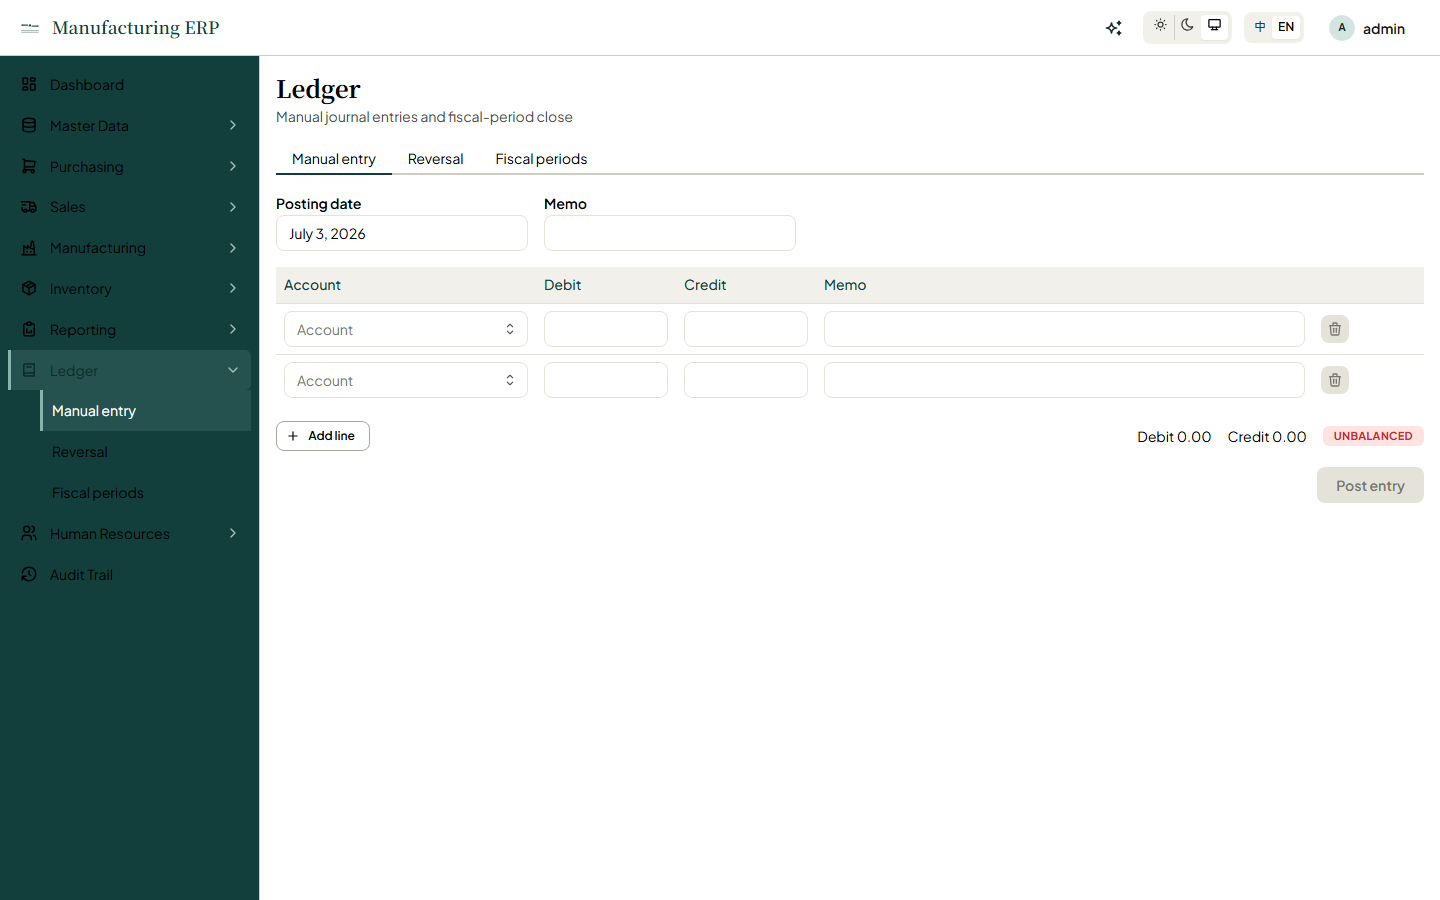
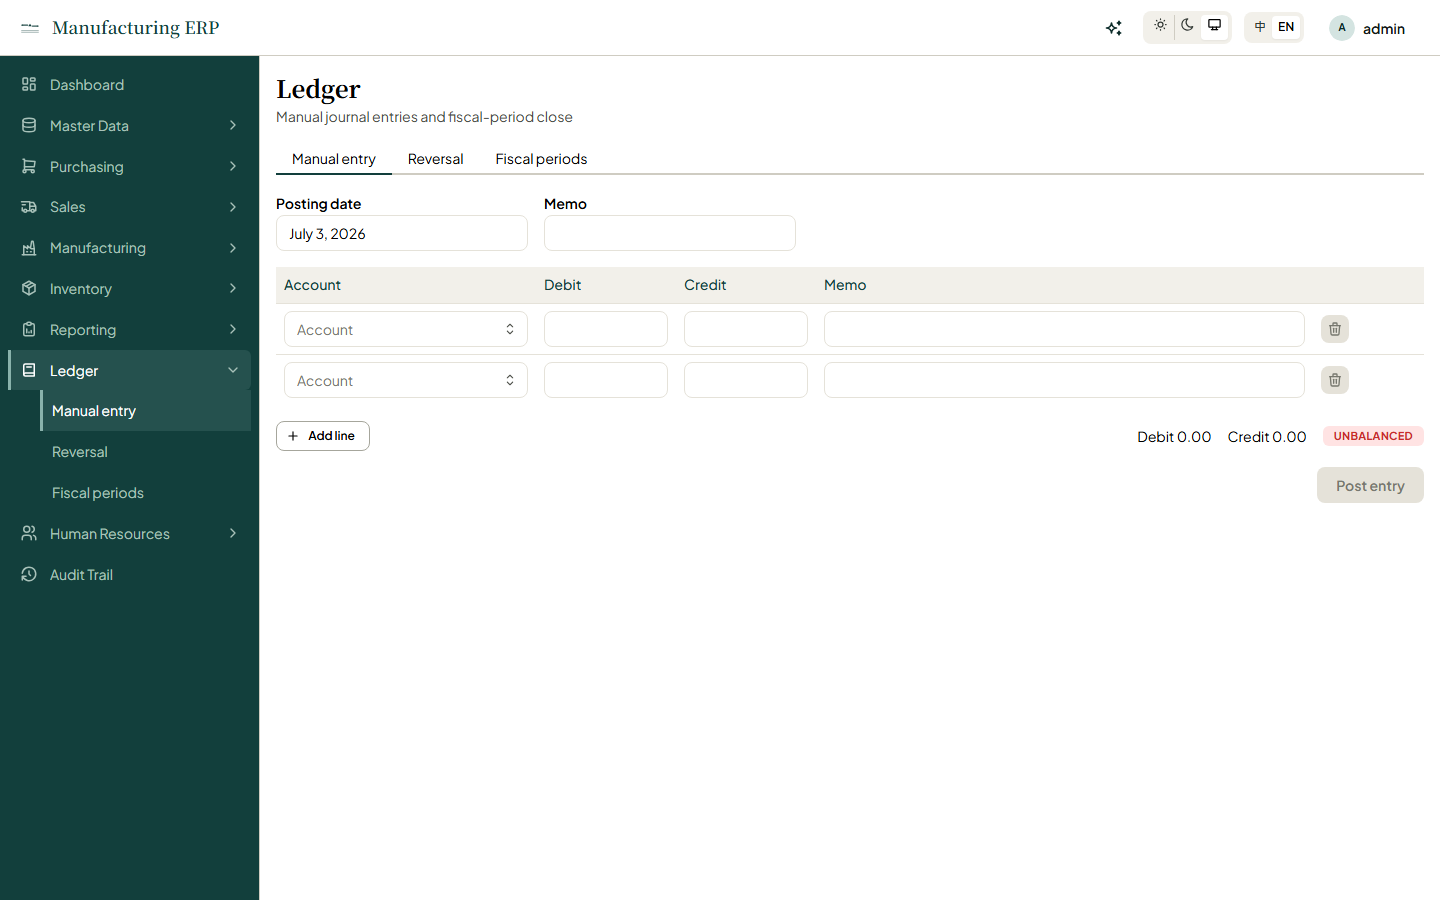
修正: 側欄 inactive NavLink 黑字(axe CI 紅燈)— Mantine --nl-* 機制誤解
- 根因 1:Mantine v9 只在 [data-active] 時讀 --nl-color/--nl-bg;inactive 純繼承文字色(light=黑,墨青底 1.8:1),hover 底寫死 gray-0/dark-6
- 根因 2:--nl-* 由 Mantine 宣告在 root 自身(祖先繼承打不進),variant prop 更會以 inline style 寫入(任何 stylesheet 都壓不過)
- 修:inactive 字色/hover 改明確 color/background 覆寫(特異性壓過 :where() 股規則);active 規則補 --nl-hover(防掉回淡色 wash)與明確 color;父模組 NavLink 移除 variant=subtle(inline 變數來源,透明底本由 .parentLink 提供)
- 以 production build 實測計算樣式驗證(inactive #A9C2BA/active #FFF);Playwright 13/13 全綠(axe 5/5)、Vitest 239、build/types 綠;截圖重製
- 教訓:PNG 小字目檢會騙人(黑字在墨青底上看似淡色),對比類驗證必須靠 axe/計算樣式

diff --git a/frontend/src/components/AppLayout.module.css b/frontend/src/components/AppLayout.module.css
@@ -22,35 +22,49 @@
 
 /* Deep-ink sidebar surface (design.md §2.4/§5). This class scopes ALL the dark-surface nav coloring to the
    navbar so it can never leak onto a NavLink rendered elsewhere in the app — the global NavLink theme
-   override (theme.ts) keeps only the color-agnostic active left-bar. The `--nl-*` vars are Mantine's own
-   NavLink CSS variables (--nl-bg / --nl-color / --nl-hover), so every NavLink inside here — parents,
-   children, single items — is recolored from one place without per-instance props. All values key off the
-   scheme-independent --app-sidebar-* tokens in index.css (single source; contrast.test.ts asserts them). */
+   override (theme.ts) keeps only the color-agnostic active left-bar. All values key off the
+   scheme-independent --app-sidebar-* tokens in index.css (single source; contrast.test.ts asserts them).
+
+   Mechanism note (the axe CI gate caught the first attempt): Mantine's NavLink declares --nl-bg/--nl-color/
+   --nl-hover ON ITS OWN ROOT (an element's own custom-property declaration beats any inherited value, so
+   setting them on this ancestor never lands), and its core CSS only *reads* --nl-color/--nl-bg inside the
+   [data-active] rule anyway — inactive links just inherit text color (black in light mode → 1.8:1 on ink)
+   and get a hardcoded gray-0/dark-6 hover. So: inactive states are recolored with plain color/background
+   declarations below (higher specificity than Mantine's :where()-wrapped rules), and only the active state
+   drives the --nl-* vars — targeted at the root itself, where they do win. */
 .navbar {
-  /* Inactive nav item: dim ink-tinted label on the deep surface, transparent bg. */
-  --nl-color: var(--app-sidebar-fg-inactive);
-  --nl-bg: transparent;
-  /* Hover on the ink surface: the stock gray-0/dark-6 hovers are unusable on deep ink, so we use a weak
-     ink-3 wash (one step under the active wash). The label brightening to the full fg tone is handled per
-     hit-area below (Mantine has no --nl var for hover *color*, only hover bg). */
-  --nl-hover: var(--app-sidebar-hover-wash);
+  /* Fallback inheritance for any non-NavLink text on the ink surface. */
+  color: var(--app-sidebar-fg);
+}
+
+/* Inactive nav item: dim ink-tinted label on the deep surface (explicit color — inactive NavLinks never
+   read --nl-color, see the mechanism note above). */
+.navbar :global(.mantine-NavLink-root):not([data-active]) {
+  color: var(--app-sidebar-fg-inactive);
+}
+
+/* Hover on the ink surface: Mantine hardcodes gray-0 (light) / dark-6 (dark) hover backgrounds for
+   inactive links — both unusable on deep ink — so both the weak ink-3 wash and the label lift to the full
+   fg tone are plain declarations that out-specify those :where()-wrapped stock rules. */
+.navbar :global(.mantine-NavLink-root):not([data-active]):hover {
+  color: var(--app-sidebar-hover-fg);
+  background-color: var(--app-sidebar-hover-wash);
 }
 
 /* Active nav item: ink-3 wash + pure-white label (the 3px 青瓷 left bar is the global box-shadow in
-   theme.ts). data-active is Mantine's NavLink root modifier; we drive its own --nl-bg/--nl-color vars so the
-   whole link (root bg + inherited label color) recolors from one place. White-on-(wash-over-ink) measures
-   ~8.8–10.2:1 (contrast.test.ts). */
+   theme.ts). data-active is Mantine's NavLink root modifier; its core CSS applies --nl-bg/--nl-color only
+   here, and --nl-hover on active:hover — pin all three at the root (where an own-element declaration wins)
+   so the active row keeps the same wash + white label when hovered, instead of falling back to Mantine's
+   pale primary-light-hover. White-on-(wash-over-ink) measures ~8.8–10.2:1 (contrast.test.ts). */
 .navbar :global(.mantine-NavLink-root)[data-active] {
   --nl-bg: var(--app-sidebar-active-wash);
   --nl-color: var(--app-sidebar-active-fg);
-}
-
-/* Lift the dim inactive label to the full fg tone on hover (--nl-hover only covers the bg). Overriding
-   --nl-color (rather than raw `color`) is the documented NavLink mechanism, so the label — which inherits
-   the root's color from that var — brightens with it. Non-active rows only; active rows keep their white
-   label. */
-.navbar :global(.mantine-NavLink-root):not([data-active]):hover {
-  --nl-color: var(--app-sidebar-hover-fg);
+  --nl-hover: var(--app-sidebar-active-wash);
+  /* Plain `color` too: a non-default `variant` prop makes Mantine's varsResolver write --nl-* as INLINE
+     styles on the root (unbeatable by any stylesheet var override — this bit the subtle-variant parent
+     links). The parent links dropped their variant, but pinning the property directly keeps the white
+     label safe even if a variant ever comes back. */
+  color: var(--app-sidebar-active-fg);
 }
 
 /* Sidebar parent row: a navigating label (flex-filled link) + an independent expand/collapse chevron.

diff --git a/frontend/src/components/AppLayout.tsx b/frontend/src/components/AppLayout.tsx
@@ -332,7 +332,6 @@ export function AppLayout() {
                     label={t(item.labelKey)}
                     leftSection={<Icon size={18} />}
                     active={active}
-                    variant="subtle"
                     onClick={() => {
                       setOpenSections((s) => ({ ...s, [item.to]: true }));
                       close();
